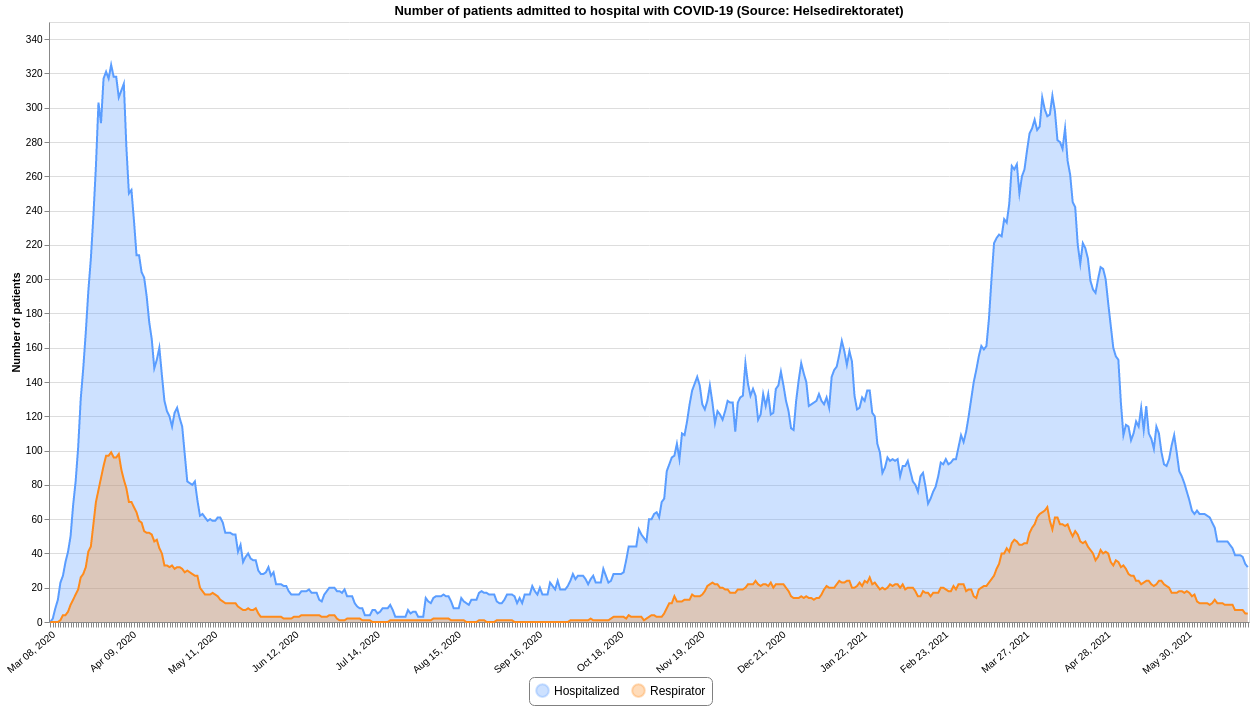
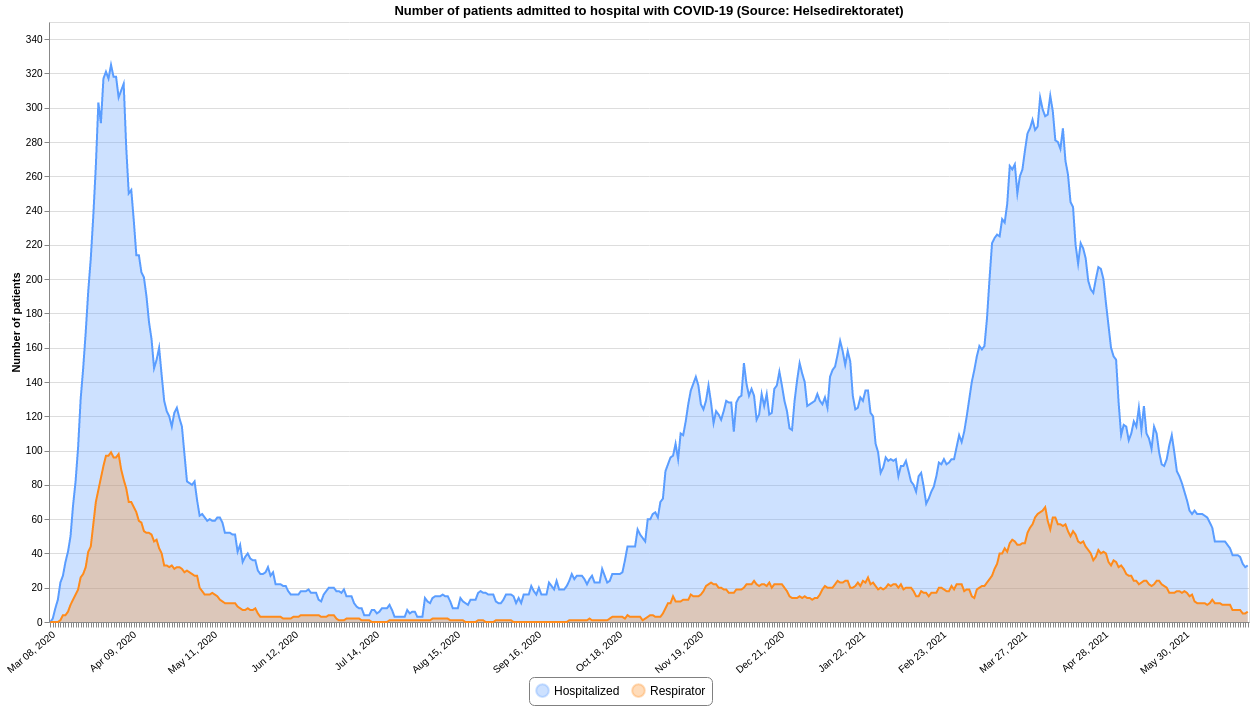
Updated 2021-06-24 12:50

diff --git a/README.md b/README.md
@@ -12,7 +12,7 @@ This repository contains datasets of daily time-series data related to COVID-19 
 | :--- | :--- | :--- | :--- | :--- |
 |[Confirmed](#confirmedcsv)|FHI / MSIS|2021-06-24 00:10:48+02:00|[<center>csv</center>](https://raw.githubusercontent.com/frefrik/c19norge-data/main/data/confirmed.csv)|[<center>preview</center>](data/confirmed.csv)|
 |[Dead](#deadcsv)|FHI|2021-06-23 13:24:11+02:00|[<center>csv</center>](https://raw.githubusercontent.com/frefrik/c19norge-data/main/data/dead.csv)|[<center>preview</center>](data/dead.csv)|
-|[Hospitalized](#hospitalizedcsv)|Helsedirektoratet|2021-06-23 12:50:50+02:00|[<center>csv</center>](https://raw.githubusercontent.com/frefrik/c19norge-data/main/data/hospitalized.csv)|[<center>preview</center>](data/hospitalized.csv)|
+|[Hospitalized](#hospitalizedcsv)|Helsedirektoratet|2021-06-24 12:50:46+02:00|[<center>csv</center>](https://raw.githubusercontent.com/frefrik/c19norge-data/main/data/hospitalized.csv)|[<center>preview</center>](data/hospitalized.csv)|
 |[Tested](#testedcsv)|FHI|2021-06-23 13:00:47+02:00|[<center>csv</center>](https://raw.githubusercontent.com/frefrik/c19norge-data/main/data/tested.csv)|[<center>preview</center>](data/tested.csv)|
 |[Tested Lab](#tested_labcsv)|FHI|2021-06-23 13:24:07+02:00|[<center>csv</center>](https://raw.githubusercontent.com/frefrik/c19norge-data/main/data/tested_lab.csv)|[<center>preview</center>](data/tested_lab.csv)|
 |[Transport](#transportcsv)|FHI|2021-06-23 13:10:49+02:00|[<center>csv</center>](https://raw.githubusercontent.com/frefrik/c19norge-data/main/data/transport.csv)|[<center>preview</center>](data/transport.csv)|
